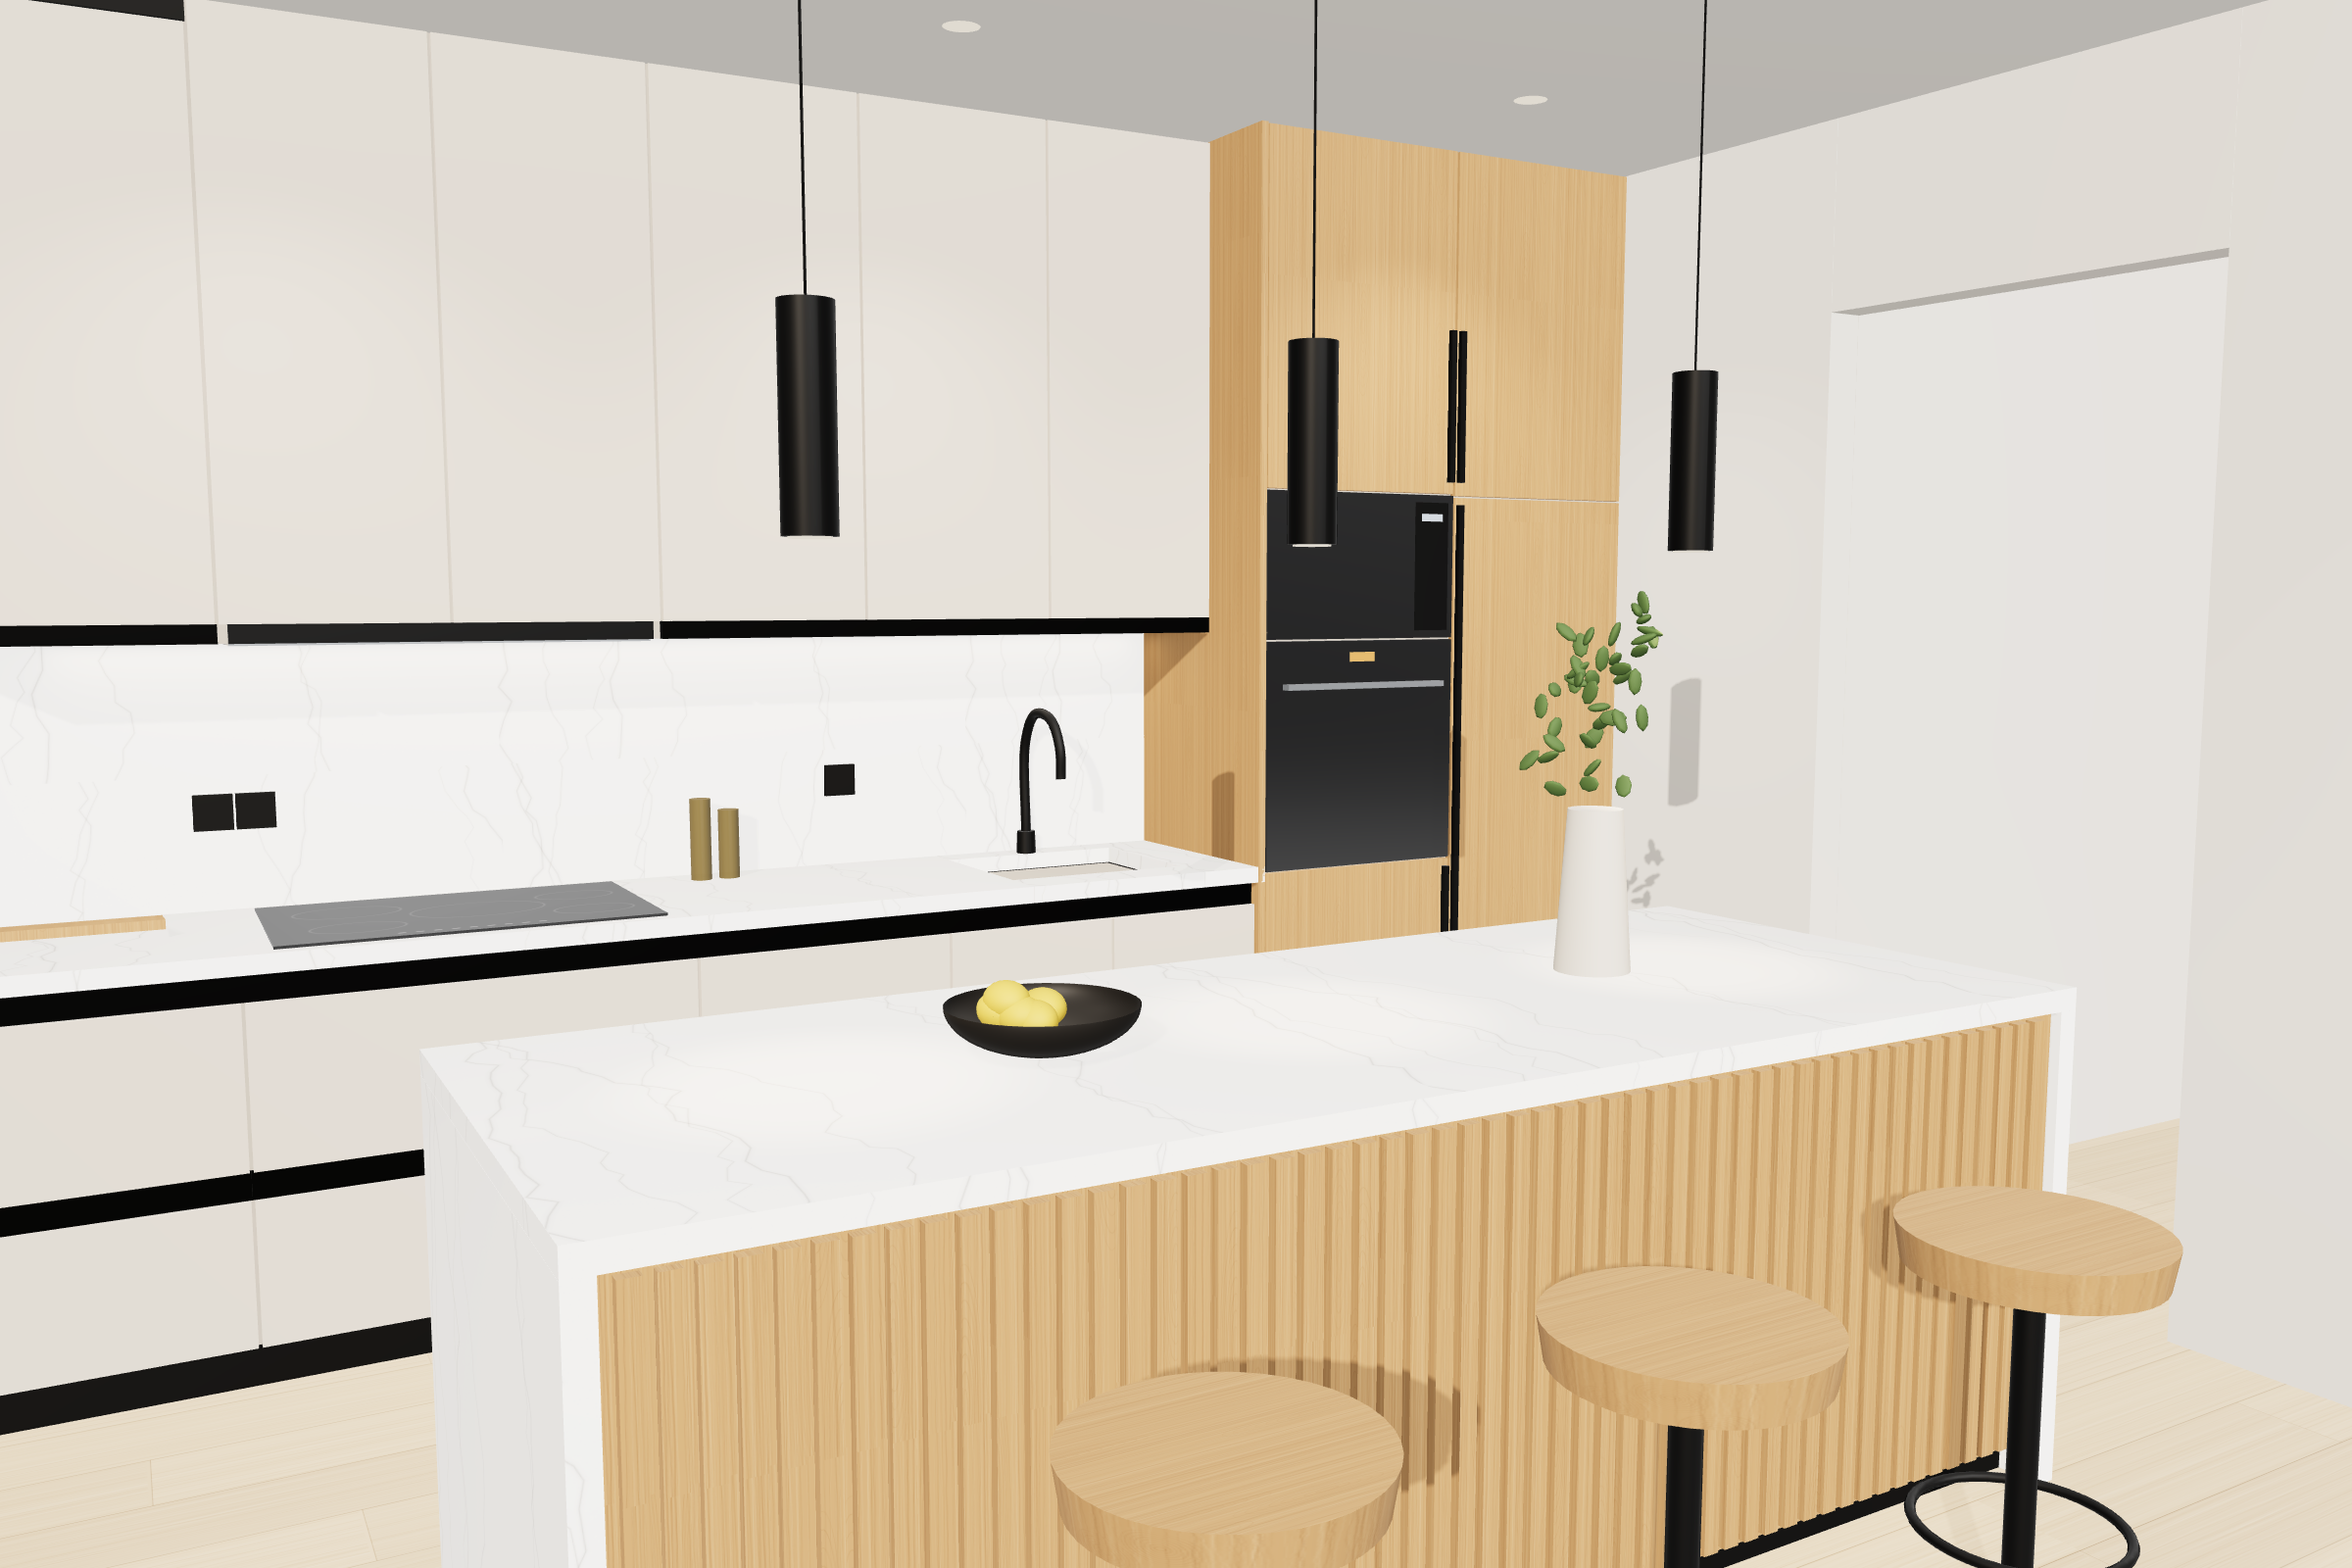
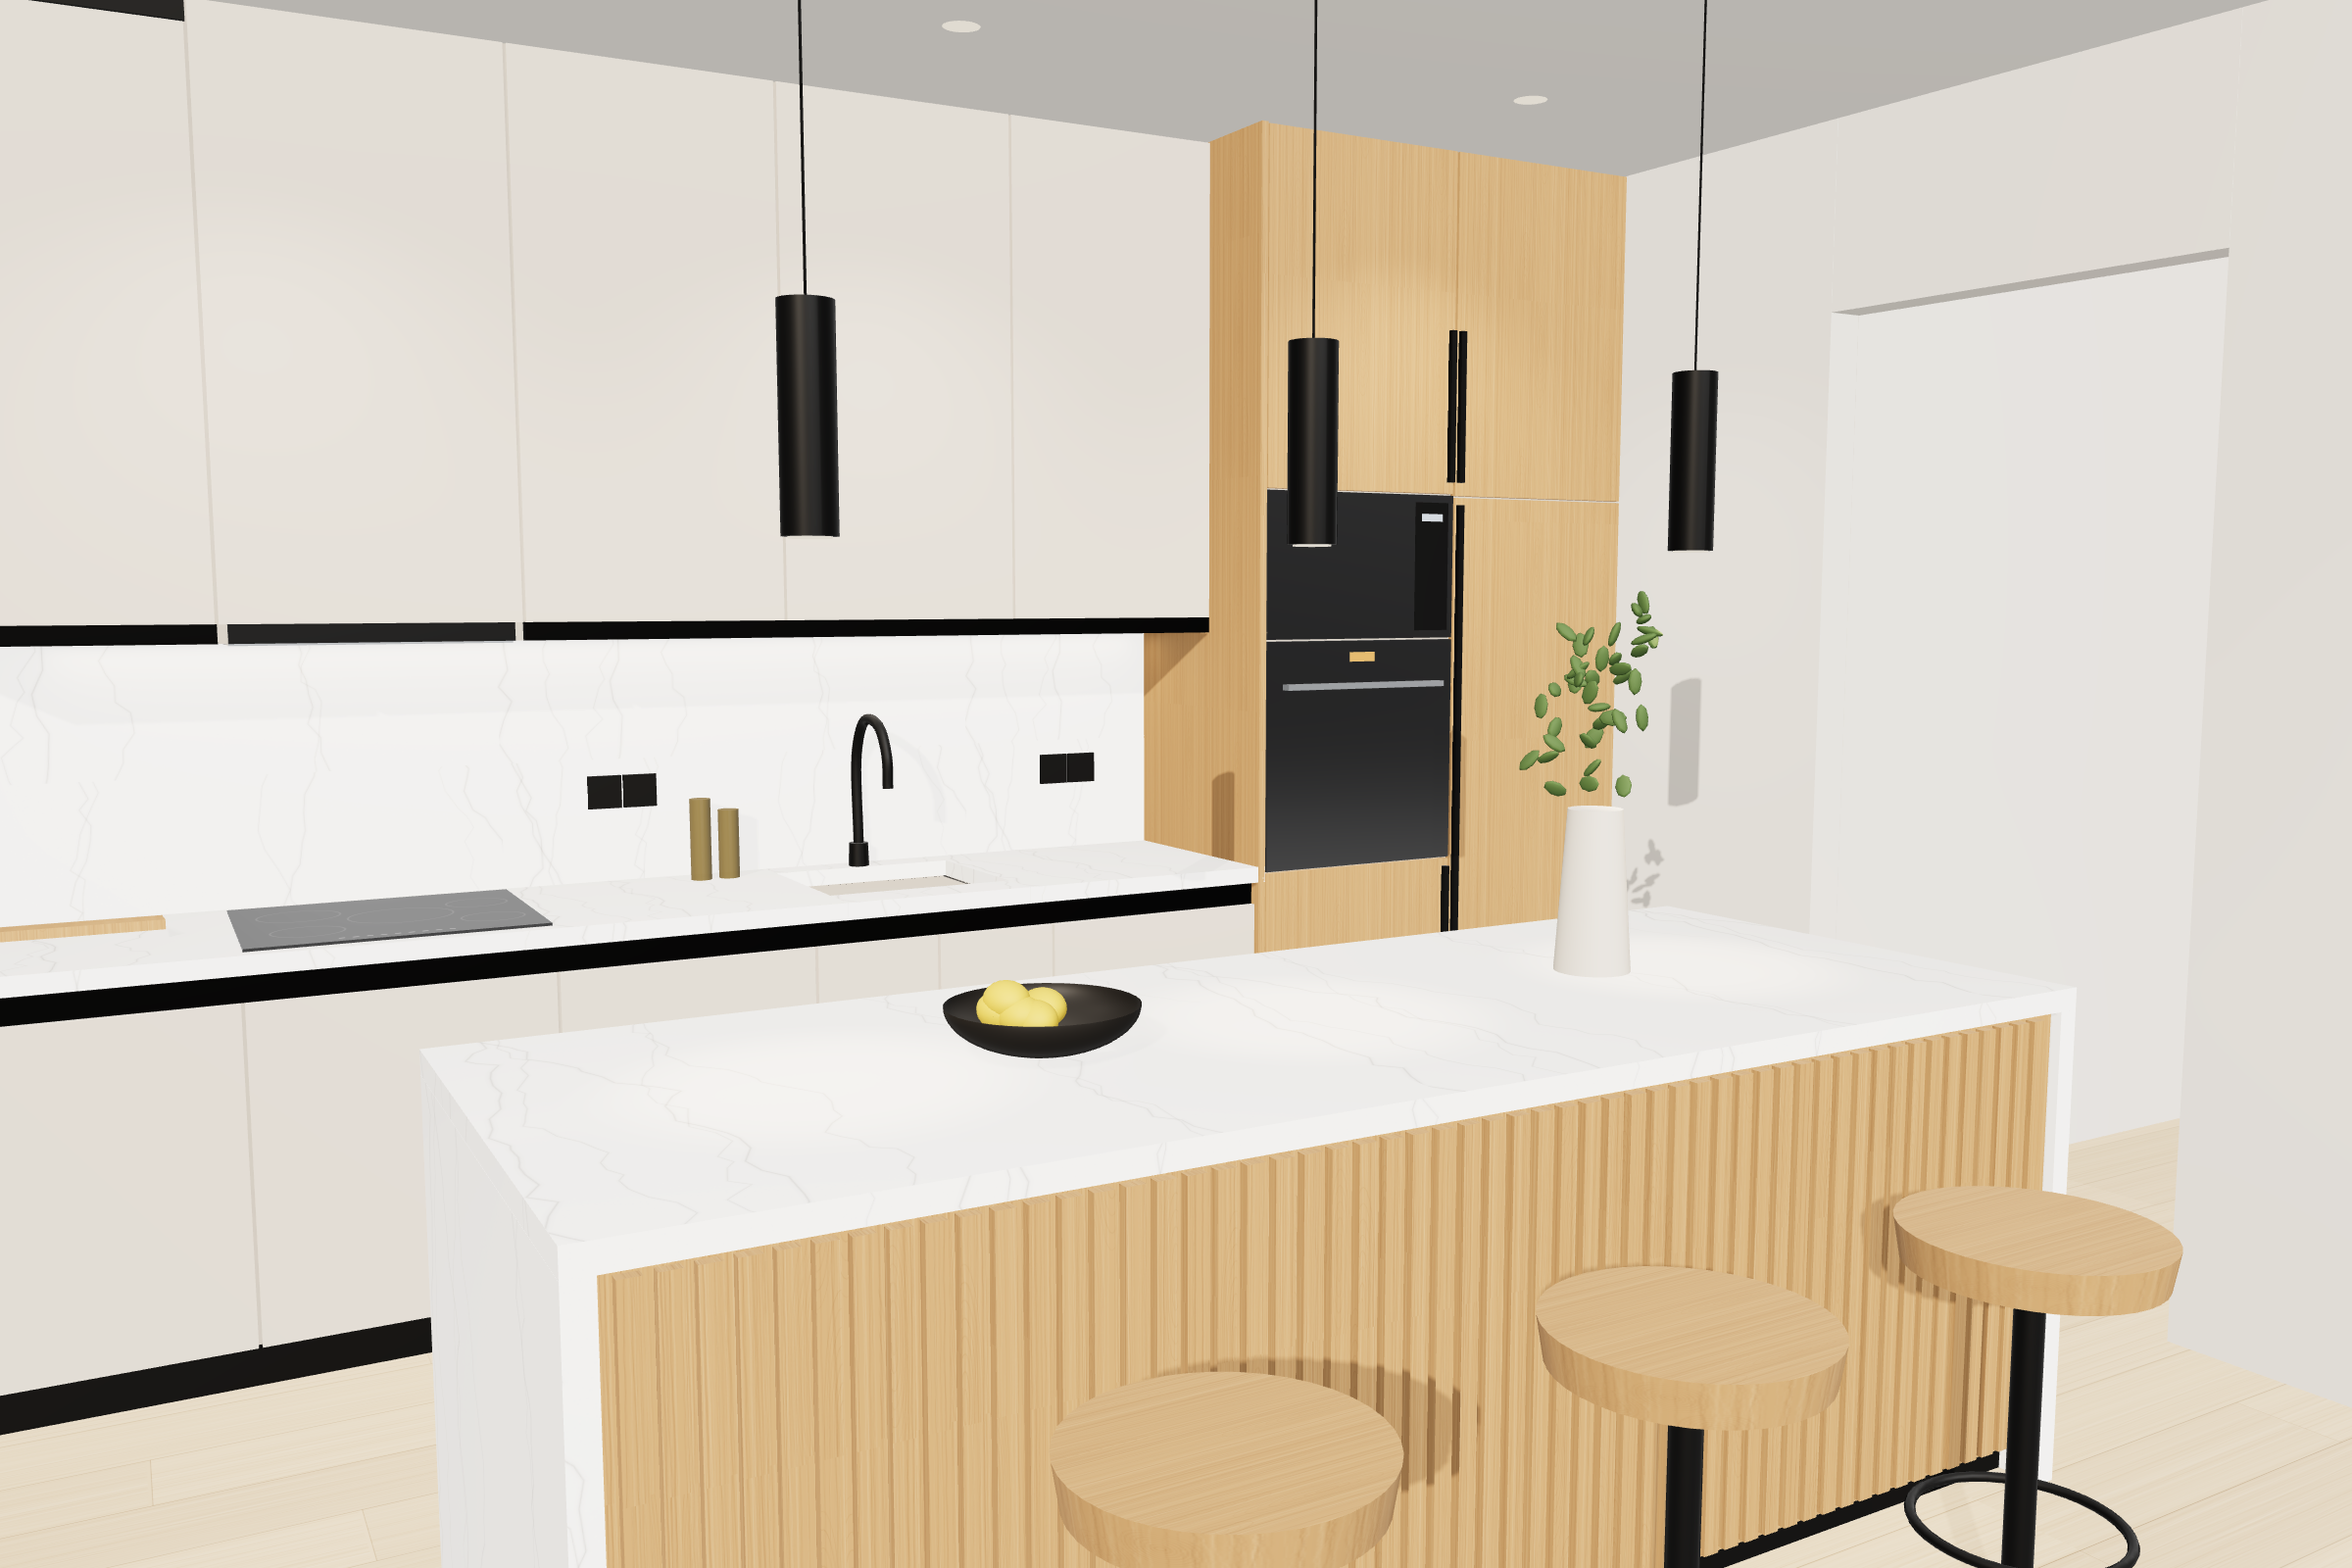
Kitchen 2: re-plan base run to site measurements (valve/filter, sink outlets, boiler)
Claude-Session: https://claude.ai/code/session_01PRHYm44tAyExEmdmiYifX7

diff --git a/renders/kitchen2-scene.html b/renders/kitchen2-scene.html
@@ -175,14 +175,16 @@ const drawers = (x0, x1) => {
   box(x0, x1, 0.40, 0.46, 0.53, 0.585, M.gola);
   box(x0 + G, x1 - G, 0.46, 0.80, 0.58, 0.6, M.cash);
 };
-drawers(0, 0.6);                                              // under the boiler
-drawers(0.6, 1.5);                                            // 900 mm pan drawers under the hob
-box(1.5 + G, 2.1 - G, 0.1, 0.80, 0.58, 0.6, M.cash);          // integrated dishwasher
-box(2.1 + G, 2.535 - G, 0.1, 0.80, 0.58, 0.6, M.cash);        // sink base, two doors
-box(2.535 + G, BX - G, 0.1, 0.80, 0.58, 0.6, M.cash);
+// 0..1.2: doors only - boiler pipework, main water valve + filter (valve ~1060 mm from the left wall)
+box(0 + G, 0.6 - G, 0.1, 0.80, 0.58, 0.6, M.cash);
+box(0.6 + G, 1.2 - G, 0.1, 0.80, 0.58, 0.6, M.cash);           // under the hob
+drawers(1.2, 1.77);
+box(1.77 + G, 2.07 - G, 0.1, 0.80, 0.58, 0.6, M.cash);         // sink base, two doors (supply/drain ~2.2 m)
+box(2.07 + G, 2.37 - G, 0.1, 0.80, 0.58, 0.6, M.cash);
+box(2.37 + G, BX - G, 0.1, 0.80, 0.58, 0.6, M.cash);           // integrated dishwasher
 
 // quartz worktop with undermount sink and full-height quartz backsplash
-const SX0 = 2.31, SX1 = 2.79, SZ0 = 0.1, SZ1 = 0.5;
+const SX0 = 1.84, SX1 = 2.30, SZ0 = 0.1, SZ1 = 0.5;
 box(0, SX0, 0.86, TOP, 0, 0.62, M.quartz, qT);
 box(SX1, BX, 0.86, TOP, 0, 0.62, M.quartz, qT);
 box(SX0, SX1, 0.86, TOP, 0, SZ0, M.quartz, qT);
@@ -203,9 +205,9 @@ for (const [a, b, c, d] of [[SX0, SX0 + 0.01, SZ0, SZ1], [SX1 - 0.01, SX1, SZ0, 
   const tube = new THREE.Mesh(new THREE.TubeGeometry(curve, 80, 0.013, 20), M.matteBlack); tube.castShadow = true; scene.add(tube);
 }
 // hob 780 mm, centred over the pan drawers
-{ const hx = 1.05, hz = 0.32; box(hx - 0.39, hx + 0.39, TOP, TOP + 0.006, hz - 0.26, hz + 0.26, M.hob); }
+{ const hx = 0.9, hz = 0.32; box(hx - 0.295, hx + 0.295, TOP, TOP + 0.006, hz - 0.26, hz + 0.26, M.hob); }
 // black sockets on the backsplash (as on site)
-for (const [x, n] of [[0.55, 2], [2.0, 1]]) for (let i = 0; i < n; i++) box(x + i * 0.085, x + i * 0.085 + 0.08, 1.08, 1.16, 0.012, 0.022, M.socket, { cast: false });
+for (const [x, n] of [[1.4, 2], [2.62, 2]]) for (let i = 0; i < n; i++) box(x + i * 0.085, x + i * 0.085 + 0.08, 1.08, 1.16, 0.012, 0.022, M.socket, { cast: false });
 
 // ---------- uppers x 0..2.97, to the ceiling ----------
 const UY0 = 1.5;
@@ -213,14 +215,13 @@ box(0, BX, UY0, CEIL, 0, 0.35, M.carcass);
 // left 600: boiler cabinet (open bottom + vent slot at the top)
 box(G, 0.6 - G, UY0 + 0.04, CEIL - 0.05, 0.35, 0.37, M.cash);
 box(0, 0.6, CEIL - 0.045, CEIL, 0.34, 0.36, M.plinth, { cast: false });
-// above hob: 900 with integrated hood strip
-box(0.6 + G, 1.05 - G, UY0 + 0.04, CEIL - G, 0.35, 0.37, M.cash);
-box(1.05 + G, 1.5 - G, UY0 + 0.04, CEIL - G, 0.35, 0.37, M.cash);
-box(0.62, 1.48, UY0, UY0 + 0.04, 0.02, 0.37, M.matteBlack);
-box(0.62, 1.48, UY0 - 0.005, UY0, 0.05, 0.34, M.steel, { cast: false });
+// above hob: 600 with integrated hood strip (duct runs to the wall opening at ~1.2 m)
+box(0.6 + G, 1.2 - G, UY0 + 0.04, CEIL - G, 0.35, 0.37, M.cash);
+box(0.62, 1.18, UY0, UY0 + 0.04, 0.02, 0.37, M.matteBlack);
+box(0.62, 1.18, UY0 - 0.005, UY0, 0.05, 0.34, M.steel, { cast: false });
 // rest: three doors
-for (let i = 0; i < 3; i++) { const a = 1.5 + i * 0.49; box(a + G, a + 0.49 - G, UY0 + 0.04, CEIL - G, 0.35, 0.37, M.cash); }
-box(1.5, BX, UY0, UY0 + 0.04, 0.33, 0.37, M.gola);            // bottom handle profile
+for (let i = 0; i < 3; i++) { const a = 1.2 + i * 0.59; box(a + G, a + 0.59 - G, UY0 + 0.04, CEIL - G, 0.35, 0.37, M.cash); }
+box(1.2, BX, UY0, UY0 + 0.04, 0.33, 0.37, M.gola);            // bottom handle profile
 box(0, 0.6, UY0, UY0 + 0.04, 0.33, 0.37, M.gola);
 box(0.62, BX - 0.03, UY0 - 0.004, UY0, 0.04, 0.055, M.led, { cast: false });
 { const ra = new THREE.RectAreaLight(0xffe7c4, 6, 2.6, 0.04); ra.position.set(1.6, UY0 - 0.01, 0.06); ra.lookAt(1.6, 0, 0.14); scene.add(ra); }
